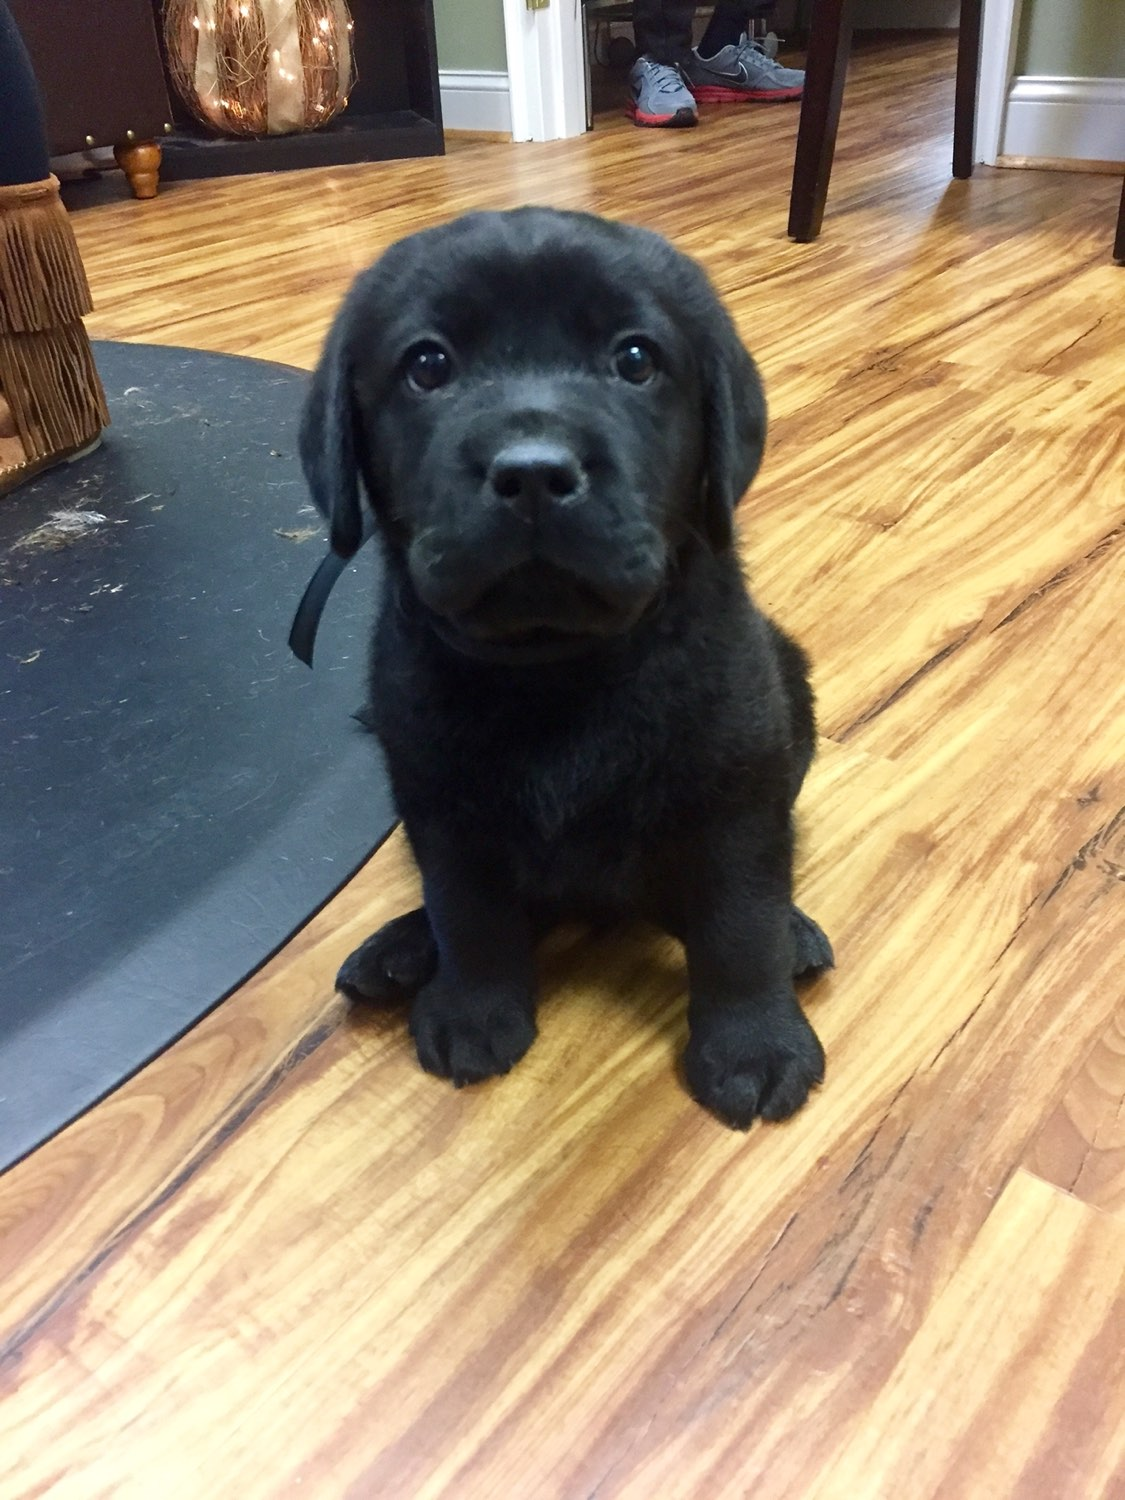
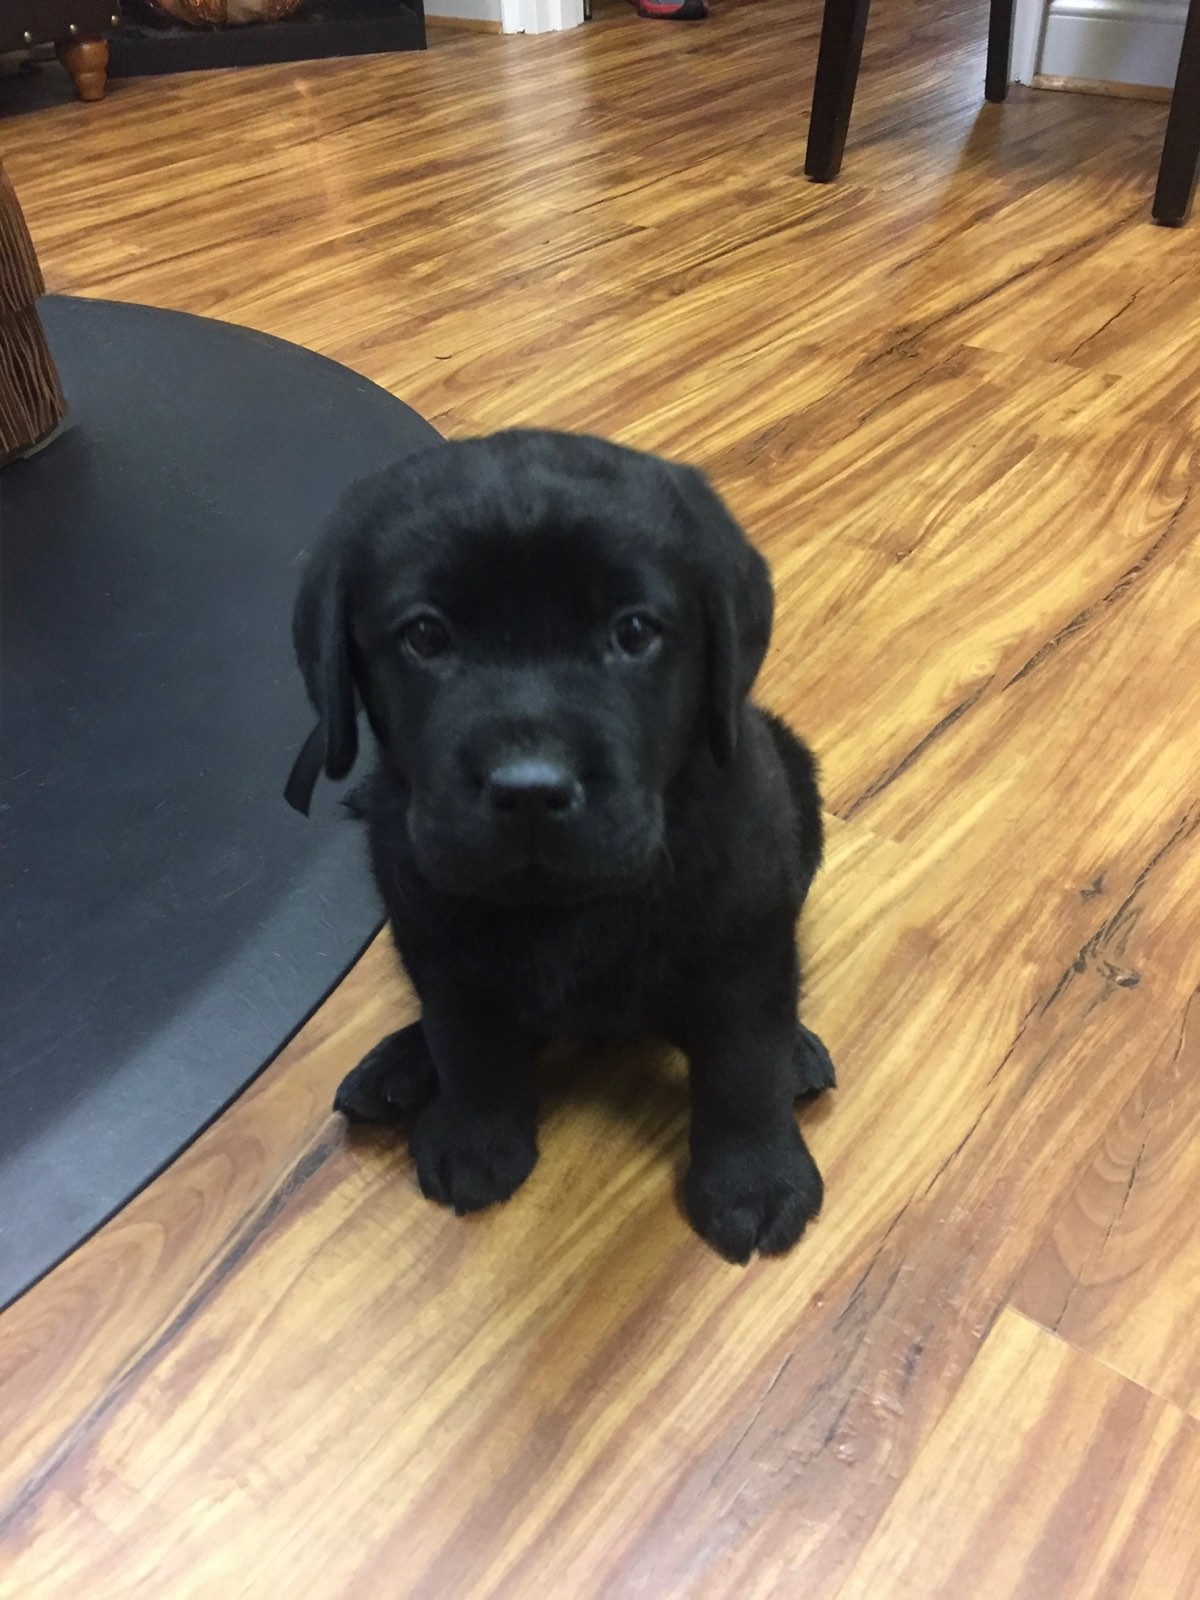
Swap in cleaned-up puppy photo and pan out the drop-off hero
Use the new image with the tidied mat and widen the framing (object-position center 60%) so the hero and thumbnails show the full puppy sitting instead of a tight face crop.

diff --git a/index.html b/index.html
@@ -746,7 +746,7 @@
         <div class="posts-grid">
 
           <a class="post-card" href="/every-drop-off-needs-a-pickup-time/">
-            <div class="post-card-image"><img src="every-drop-off-needs-a-pickup-time.jpg" alt="A black Labrador puppy sitting on a wood floor, looking up at the camera" style="width:100%;height:100%;object-fit:cover;object-position:center 28%;border-radius:3px;" loading="lazy" decoding="async"></div>
+            <div class="post-card-image"><img src="every-drop-off-needs-a-pickup-time.jpg" alt="A black Labrador puppy sitting on a wood floor, looking up at the camera" style="width:100%;height:100%;object-fit:cover;object-position:center 60%;border-radius:3px;" loading="lazy" decoding="async"></div>
             <span class="post-tag">Practice Management</span>
             <h3 class="post-card-title">Every Drop-Off Needs a Pickup Time</h3>
             <p class="post-card-excerpt">A relief vet on the one intake habit that keeps a veterinary team from staying late: give every drop-off a real pickup time and a named callback.</p>
@@ -1053,7 +1053,7 @@
         <div class="posts-grid">
 
           <a class="post-card" href="/every-drop-off-needs-a-pickup-time/">
-            <div class="post-card-image"><img src="every-drop-off-needs-a-pickup-time.jpg" alt="A black Labrador puppy sitting on a wood floor, looking up at the camera" style="width:100%;height:100%;object-fit:cover;object-position:center 28%;border-radius:3px;" loading="lazy" decoding="async"></div>
+            <div class="post-card-image"><img src="every-drop-off-needs-a-pickup-time.jpg" alt="A black Labrador puppy sitting on a wood floor, looking up at the camera" style="width:100%;height:100%;object-fit:cover;object-position:center 60%;border-radius:3px;" loading="lazy" decoding="async"></div>
             <span class="post-tag">Practice Management</span>
             <h3 class="post-card-title">Every Drop-Off Needs a Pickup Time</h3>
             <p class="post-meta"><time datetime="2026-08-10">August 10, 2026</time></p>

diff --git a/blog/index.html b/blog/index.html
@@ -122,7 +122,7 @@
       <div class="posts-grid">
 
           <a class="post-card" href="/every-drop-off-needs-a-pickup-time/">
-            <div class="post-card-image"><img src="/every-drop-off-needs-a-pickup-time.jpg" loading="lazy" decoding="async" alt="A black Labrador puppy sitting on a wood floor, looking up at the camera" style="width:100%;height:100%;object-fit:cover;object-position:center 28%;border-radius:3px;"></div>
+            <div class="post-card-image"><img src="/every-drop-off-needs-a-pickup-time.jpg" loading="lazy" decoding="async" alt="A black Labrador puppy sitting on a wood floor, looking up at the camera" style="width:100%;height:100%;object-fit:cover;object-position:center 60%;border-radius:3px;"></div>
             <span class="post-tag">Practice Management</span>
             <h3 class="post-card-title">Every Drop-Off Needs a Pickup Time</h3>
             <p class="post-meta"><time datetime="2026-08-10">August 10, 2026</time></p>

diff --git a/every-drop-off-needs-a-pickup-time/index.html b/every-drop-off-needs-a-pickup-time/index.html
@@ -392,7 +392,7 @@
 
   <main>
     <div style="max-width:860px;margin:0 auto;padding:5rem 2rem 0;">
-      <img src="../every-drop-off-needs-a-pickup-time.jpg" alt="A black Labrador puppy sitting on a wood floor, looking up at the camera" style="width:100%;border-radius:4px;aspect-ratio:16/9;object-fit:cover;object-position:center 28%;">
+      <img src="../every-drop-off-needs-a-pickup-time.jpg" alt="A black Labrador puppy sitting on a wood floor, looking up at the camera" style="width:100%;border-radius:4px;aspect-ratio:16/9;object-fit:cover;object-position:center 60%;">
       <p style="margin:0.75rem 0 0; font-family:var(--serif); font-style:italic; font-size:0.85rem; color:var(--ink2); opacity:0.85;">A black lab puppy, also known to those who know the breed as a Hoover with paws.</p>
     </div>
     <div class="article-header" style="padding-top:2rem;">
